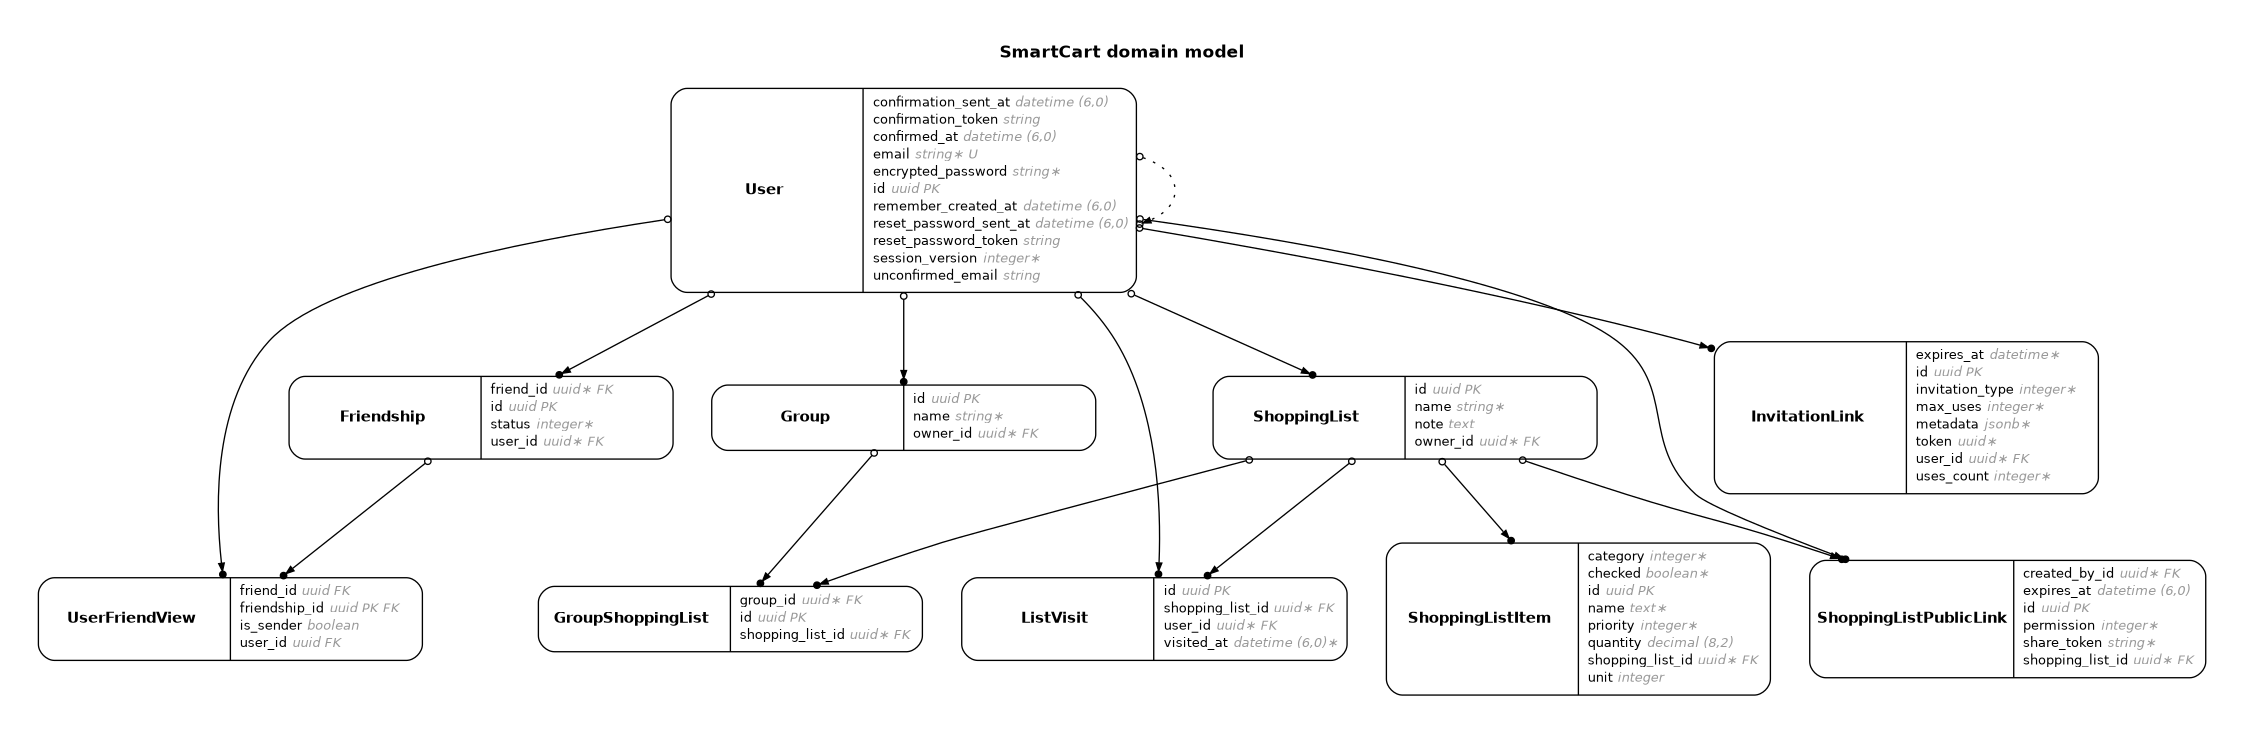
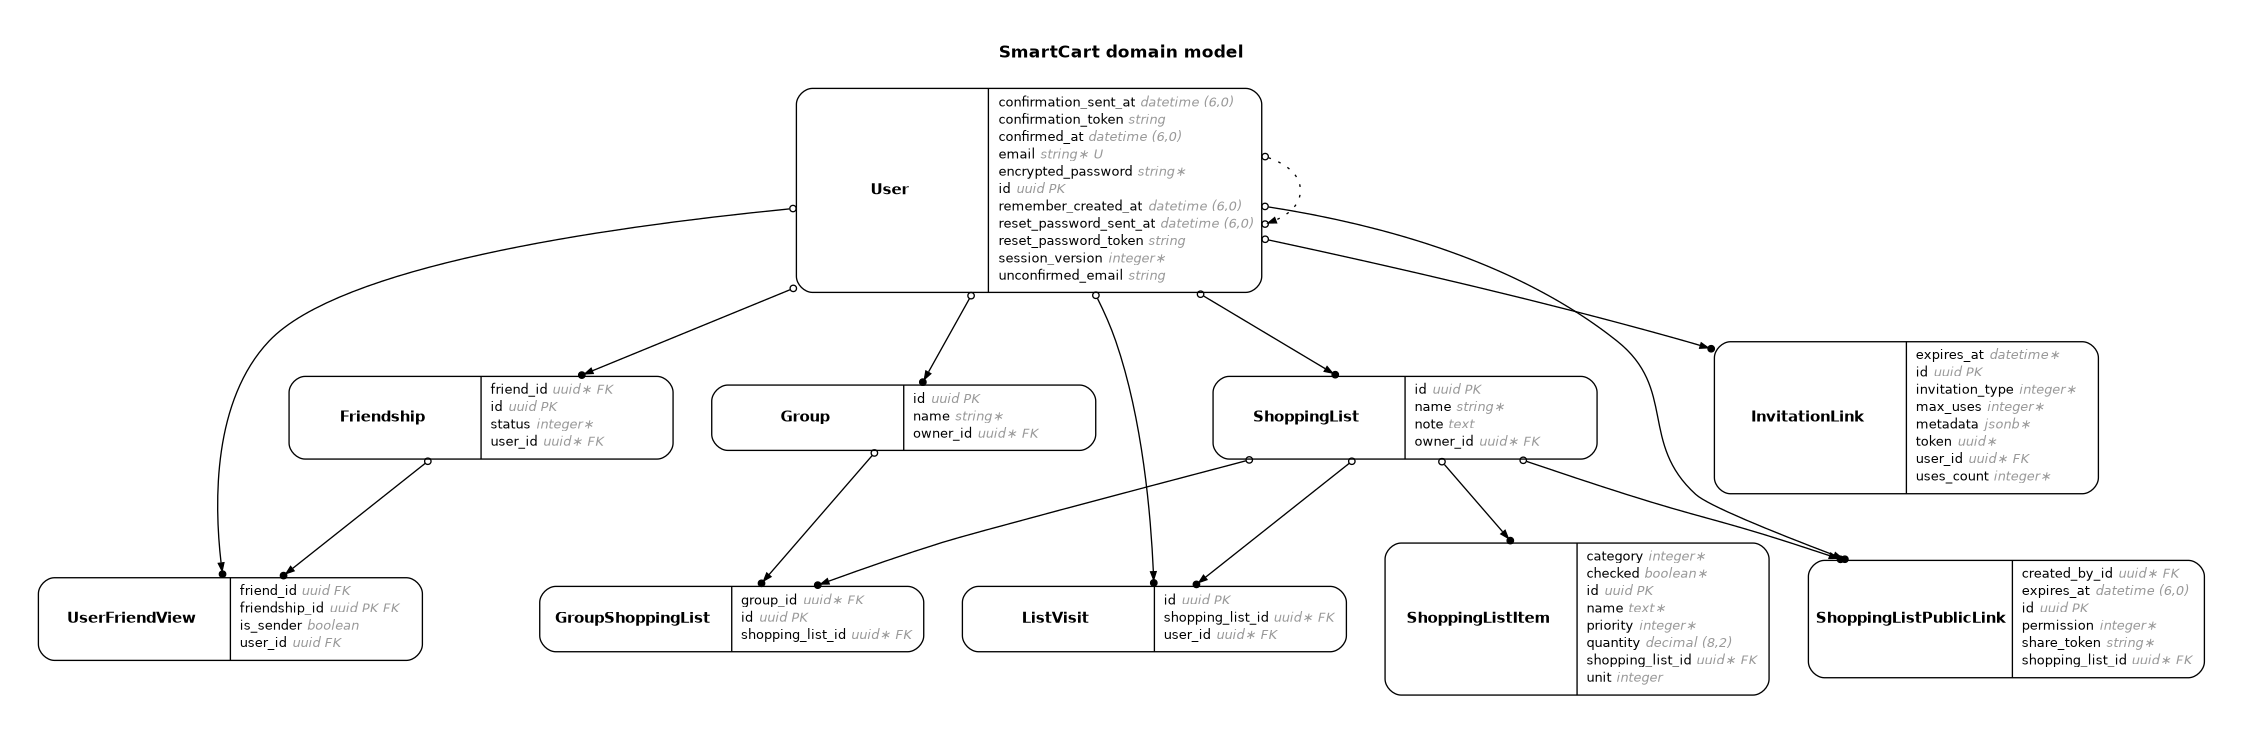
feat(visits): overhaul visit tracking logic and persistence strategy
- Implement new visit tracking mechanism using `find_or_initialize_by` instead of simple creation.
- Introduce interaction counter (`interaction_count`) to track visit frequency per list.
- Add debounce logic: ignore repeat visits within a 1-hour window to reduce DB load.
- Apply database-level atomicity: add unique index for (user_id, shopping_list_id) to prevent duplicates and race conditions.
- Update Service layer to handle tracking logic directly and atomically.

diff --git a/spec/services/visits/track_spec.rb b/spec/services/visits/track_spec.rb
@@ -5,34 +5,73 @@ RSpec.describe Visits::Track, type: :service do
   let(:shopping_list) { create(:shopping_list, owner: user) }
 
   describe '.call' do
-    it 'enqueues a job to track the visit with correct parameters' do
-      travel_to Time.zone.local(2023, 1, 1, 12, 0, 0) do
+    context 'when visiting for the first time' do
+      it 'creates a new ListVisit record' do
         expect {
-          Visits::Track.call(user: user, shopping_list: shopping_list)
-        }.to have_enqueued_job(VisitTrackingJob).with(user_id: user.id, shopping_list_id: shopping_list.id, visited_at: Time.zone.now)
+          described_class.call(user: user, shopping_list: shopping_list)
+        }.to change { ListVisit.count }.by(1)
+      end
+
+      it 'sets the initial interaction_count to 1' do
+        described_class.call(user: user, shopping_list: shopping_list)
+        visit = ListVisit.last
+        expect(visit.interaction_count).to eq(1)
+      end
+
+      it 'sets the visited_at timestamp' do
+        travel_to Time.zone.local(2021, 1, 1) do
+          described_class.call(user: user, shopping_list: shopping_list)
+          visit = ListVisit.last
+          expect(visit.visited_at).to eq(Time.zone.local(2021, 1, 1))
+        end
+      end
+    end
+    context 'when visiting again after 1h+' do
+      let!(:visit) { create(:list_visit, user: user, shopping_list: shopping_list, interaction_count: 1, visited_at: 2.hours.ago) }
+      it 'updates the existing ListVisit record instead of creating a new one' do
+        expect {
+          described_class.call(user: user, shopping_list: shopping_list)
+        }.not_to change { ListVisit.count }
+      end
+
+      it 'updates the visited_at timestamp' do
+        described_class.call(user: user, shopping_list: shopping_list)
+        visit = ListVisit.last
+        expect(visit.visited_at).to be_within(1.minute).of(Time.zone.now)
+      end
+
+      it 'increments the interaction_count' do
+        expect {
+          described_class.call(user: user, shopping_list: shopping_list)
+        }.to change { visit.reload.interaction_count }.by(1)
       end
     end
 
-    it 'raises an error if user is missing' do
-      expect {
-        Visits::Track.call(user: nil, shopping_list: shopping_list)
-      }.to raise_error(ArgumentError)
-    end
+    context 'debounce logic within 1h' do
+      let!(:recent_visit) { create(:list_visit, user: user, shopping_list: shopping_list, interaction_count: 1, visited_at: 50.minutes.ago) }
 
-    it 'raises an error if shopping list is missing' do
-      expect {
-        Visits::Track.call(user: user, shopping_list: nil)
-      }.to raise_error(ArgumentError)
-    end
-
-    describe 'debounce' do
-      let(:other_list) { create(:shopping_list, owner: user) }
-      it 'does not enqueue a job if the last visited list is the same as the one currently visited' do
-        create(:list_visit, user: user, shopping_list: shopping_list, visited_at: Time.zone.now - 5.hour)
+      it 'does not increment the interaction_count if the last visit was less than 1 hour ago' do
         expect {
-          Visits::Track.call(user: user, shopping_list: shopping_list)
-        }.not_to have_enqueued_job(VisitTrackingJob)
+          described_class.call(user: user, shopping_list: shopping_list)
+        }.to change { recent_visit.reload.interaction_count }.by(0)
+      end
+
+      it 'updates the visited_at timestamp' do
+        expect {
+          described_class.call(user: user, shopping_list: shopping_list)
+        }.to change { recent_visit.reload.visited_at }
+      end
+    end
+
+    describe 'validations' do
+      it 'raises an error if user is nil' do
+        expect { described_class.call(user: nil, shopping_list: shopping_list) }.to raise_error(ArgumentError)
+      end
+
+      it 'raises an error if shopping_list is nil' do
+        expect { described_class.call(user: user, shopping_list: nil) }.to raise_error(ArgumentError)
       end
     end
   end
+
 end

diff --git a/app/services/visits/track.rb b/app/services/visits/track.rb
@@ -3,8 +3,19 @@ module Visits
     def self.call(user: user, shopping_list: shopping_list)
       raise ArgumentError, "user is required" unless user.present?
       raise ArgumentError, "shopping list is required" unless shopping_list.present?
-      return if user.last_visited_shopping_list&.id == shopping_list.id
-      VisitTrackingJob.perform_later(user_id: user.id, shopping_list_id: shopping_list.id, visited_at: Time.zone.now)
+
+      visit = ListVisit.find_or_initialize_by(user_id: user.id, shopping_list_id: shopping_list.id)
+
+      if visit.persisted? && visit.visited_at > 1.hour.ago
+        visit.visited_at = Time.zone.now
+        visit.save!
+      else
+        ActiveRecord::Base.transaction do
+          visit.visited_at = Time.zone.now
+          visit.interaction_count += 1
+          visit.save!
+        end
+      end
     end
   end
 end

diff --git a/db/migrate/20260418114314_create_list_visits.rb b/db/migrate/20260418114314_create_list_visits.rb
@@ -3,10 +3,15 @@ class CreateListVisits < ActiveRecord::Migration[8.1]
     create_table :list_visits, id: :uuid do |t|
       t.belongs_to :user, foreign_key: { on_delete: :cascade }, null: false, type: :uuid
       t.belongs_to :shopping_list, foreign_key: { on_delete: :cascade }, null: false, type: :uuid
+      t.datetime :visited_at, null: false
+      t.integer :interaction_count, null: false, default: 0
       t.timestamps
     end
 
-    add_index :list_visits, [ :user_id, :created_at ]
-    add_index :list_visits, [ :shopping_list_id, :created_at ]
+    add_index :list_visits, [:user_id, :shopping_list_id], unique: true
+
+    add_index :list_visits, [:user_id, :visited_at]
+    add_index :list_visits, [:shopping_list_id, :visited_at]
+    add_index :list_visits, [:user_id, :interaction_count]
   end
 end

diff --git a/spec/models/list_visit_spec.rb b/spec/models/list_visit_spec.rb
@@ -9,6 +9,12 @@ RSpec.describe ListVisit, type: :model do
   describe 'validations' do
     it { should validate_presence_of(:user_id) }
     it { should validate_presence_of(:shopping_list_id) }
+    it { should validate_presence_of(:interaction_count) }
     it { should validate_presence_of(:visited_at) }
+
+    describe 'uniqueness of user_id scoped to shopping_list_id' do
+      subject { create(:list_visit, user: create(:user), shopping_list: create(:shopping_list)) }
+      it { should validate_uniqueness_of(:user_id).scoped_to(:shopping_list_id).ignoring_case_sensitivity }
+    end
   end
 end

diff --git a/app/models/list_visit.rb b/app/models/list_visit.rb
@@ -5,4 +5,6 @@ class ListVisit < ApplicationRecord
   validates :user_id, presence: true
   validates :shopping_list_id, presence: true
   validates :visited_at, presence: true
+  validates :interaction_count, presence: true
+  validates :user_id, uniqueness: { scope: :shopping_list_id }
 end
